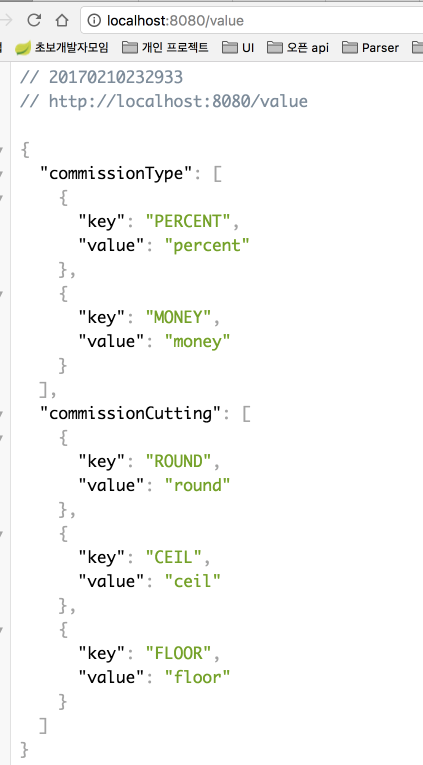
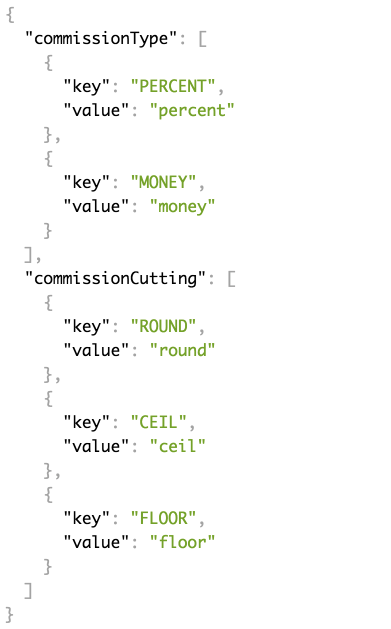
feat: Java Enum 활용하기
- Enum 관리 모듈

diff --git a/enum-mapper/src/main/java/com/enummapper/ApiController.java b/enum-mapper/src/main/java/com/enummapper/ApiController.java
@@ -1,0 +1,67 @@
+package com.enummapper;
+
+import com.enummapper.after.EnumContract;
+import com.enummapper.after.EnumMapper;
+import com.enummapper.after.EnumModel;
+import com.enummapper.after.EnumValue;
+import org.springframework.web.bind.annotation.GetMapping;
+import org.springframework.web.bind.annotation.RestController;
+
+import java.util.Arrays;
+import java.util.LinkedHashMap;
+import java.util.List;
+import java.util.Map;
+import java.util.stream.Collectors;
+
+@RestController
+public class ApiController {
+
+    @GetMapping("/enum")
+    public Map<String, Object> getEnum() {
+        Map<String, Object> enums = new LinkedHashMap<>();
+
+        Class commissionType = EnumContract.CommissionType.class;
+        Class commissionCutting = EnumContract.CommissionCutting.class;
+
+        enums.put("commissionType", commissionType.getEnumConstants());
+        enums.put("commissionCutting", commissionCutting.getEnumConstants());
+
+        return enums;
+    }
+
+    @GetMapping("/value")
+    public Map<String, List<EnumValue>> getEnumValue() {
+        Map<String, List<EnumValue>> enumValues = new LinkedHashMap<>();
+
+        enumValues.put("commissionType", toEnumValues(EnumContract.CommissionType.class));
+        enumValues.put("commissionCutting", toEnumValues(EnumContract.CommissionCutting.class));
+
+        return enumValues;
+    }
+
+    private List<EnumValue> toEnumValues(Class<? extends EnumModel> e){
+        return Arrays
+                .stream(e.getEnumConstants())
+                .map(EnumValue::new)
+                .collect(Collectors.toList());
+    }
+
+    private EnumMapper enumMapper;
+
+    public ApiController(EnumMapper enumMapper) {
+        this.enumMapper = enumMapper;
+    }
+
+    @GetMapping("/mapper")
+    public Map<String, List<EnumValue>> getMapper() {
+        return enumMapper.getAll();
+    }
+
+    @GetMapping("/models")
+    public List<EnumModel> getModel() {
+        return Arrays
+                .stream(EnumContract.CommissionType.class.getEnumConstants())
+                .collect(Collectors.toList());
+    }
+
+}

diff --git a/enum-mapper/src/test/java/com/enummapper/EnumMapperApplicationTests.java b/enum-mapper/src/test/java/com/enummapper/EnumMapperApplicationTests.java
@@ -1,11 +1,16 @@
 package com.enummapper;
 
+import com.enummapper.after.EnumContract;
+import com.enummapper.after.EnumModel;
 import com.enummapper.before.Commission;
 import com.enummapper.before.Contract;
 import com.enummapper.before.ContractRepository;
 import org.junit.jupiter.api.Test;
 import org.springframework.beans.factory.annotation.Autowired;
 import org.springframework.boot.test.context.SpringBootTest;
+
+import java.util.ArrayList;
+import java.util.List;
 
 import static org.hamcrest.CoreMatchers.is;
 import static org.hamcrest.MatcherAssert.assertThat;
@@ -40,6 +45,16 @@ class EnumMapperApplicationTests {
         contractRepository.save(contract);
         Contract saved = contractRepository.findAll().get(0);
         assertThat(saved.getCommission(), is(1.0));
+    }
+
+    @Test
+    public void enumModelType() {
+        List<EnumModel> enumModels = new ArrayList<>();
+        enumModels.add(EnumContract.CommissionType.MONEY);
+        enumModels.add(EnumContract.CommissionCutting.CEIL);
+
+        assertThat(enumModels.get(0).getValue(), is("money"));
+        assertThat(enumModels.get(1).getValue(), is("ceil"));
     }
 
 }

diff --git a/enum-mapper/src/main/java/com/enummapper/after/EnumContract.java b/enum-mapper/src/main/java/com/enummapper/after/EnumContract.java
@@ -22,7 +22,7 @@ public class EnumContract {
     @Enumerated(EnumType.STRING)
     private CommissionCutting commissionCutting; // 수수료 절삭 (예: 반올림, 올림, 버림)
 
-    public enum CommissionType {
+    public enum CommissionType implements EnumModel {
 
         PERCENT("percent"),
         MONEY("money");
@@ -33,17 +33,19 @@ public class EnumContract {
             this.value = value;
         }
 
+        @Override
         public String getKey() {
             return name();
         }
 
+        @Override
         public String getValue() {
             return value;
         }
 
     }
 
-    public enum CommissionCutting {
+    public enum CommissionCutting implements EnumModel {
         ROUND("round"),
         CEIL("ceil"),
         FLOOR("floor");
@@ -54,10 +56,12 @@ public class EnumContract {
             this.value = value;
         }
 
+        @Override
         public String getKey() {
             return name();
         }
 
+        @Override
         public String getValue() {
             return value;
         }

diff --git a/enum-mapper/src/main/java/com/enummapper/after/EnumMapper.java b/enum-mapper/src/main/java/com/enummapper/after/EnumMapper.java
@@ -1,0 +1,35 @@
+package com.enummapper.after;
+
+import java.util.Arrays;
+import java.util.HashMap;
+import java.util.List;
+import java.util.Map;
+import java.util.function.Function;
+import java.util.stream.Collectors;
+
+public class EnumMapper {
+
+    private Map<String, List<EnumValue>> factory = new HashMap<>();
+
+    private List<EnumValue> toEnumValues(Class<? extends EnumModel> e) {
+        return Arrays
+                .stream(e.getEnumConstants())
+                .map(EnumValue::new)
+                .collect(Collectors.toList());
+    }
+
+    public void put(String key, Class<? extends EnumModel> e){
+        factory.put(key, toEnumValues(e));
+    }
+
+    public Map<String, List<EnumValue>> getAll(){
+        return factory;
+    }
+
+    public Map<String, List<EnumValue>> get(String keys){
+        return Arrays
+                .stream(keys.split(","))
+                .collect(Collectors.toMap(Function.identity(), key -> factory.get(key)));
+    }
+
+}

diff --git a/enum-mapper/src/main/java/com/enummapper/after/AppConfig.java b/enum-mapper/src/main/java/com/enummapper/after/AppConfig.java
@@ -1,0 +1,17 @@
+package com.enummapper.after;
+
+import org.springframework.context.annotation.Bean;
+import org.springframework.context.annotation.Configuration;
+
+@Configuration
+public class AppConfig {
+
+    @Bean
+    public EnumMapper enumMapper() {
+        EnumMapper enumMapper = new EnumMapper();
+        enumMapper.put("commissionType", EnumContract.CommissionType.class);
+        enumMapper.put("commissionCutting", EnumContract.CommissionCutting.class);
+        return enumMapper;
+    }
+
+}

diff --git a/enum-mapper/src/main/java/com/enummapper/after/EnumValue.java b/enum-mapper/src/main/java/com/enummapper/after/EnumValue.java
@@ -1,0 +1,21 @@
+package com.enummapper.after;
+
+public class EnumValue {
+
+    private String key;
+    private String value;
+
+    public EnumValue(EnumModel enumModel) {
+        key = enumModel.getKey();
+        value = enumModel.getValue();
+    }
+
+    public String getKey() {
+        return key;
+    }
+
+    public String getValue() {
+        return value;
+    }
+
+}

diff --git a/enum-mapper/src/main/java/com/enummapper/after/EnumModel.java b/enum-mapper/src/main/java/com/enummapper/after/EnumModel.java
@@ -1,0 +1,8 @@
+package com.enummapper.after;
+
+public interface EnumModel {
+
+    String getKey();
+    String getValue();
+
+}
